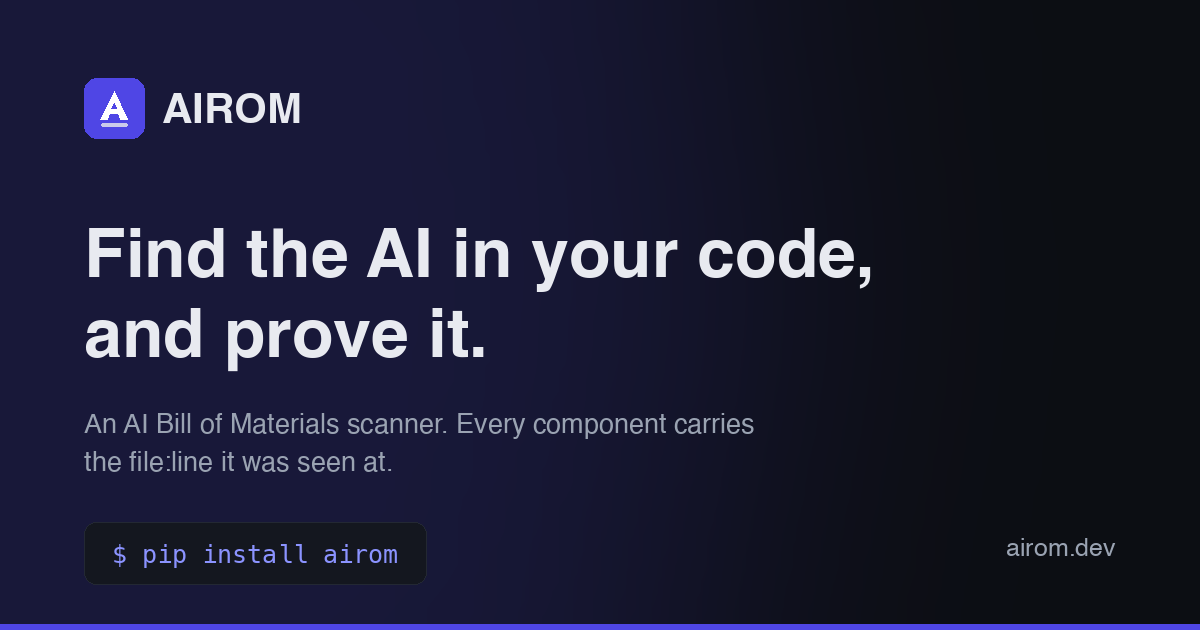
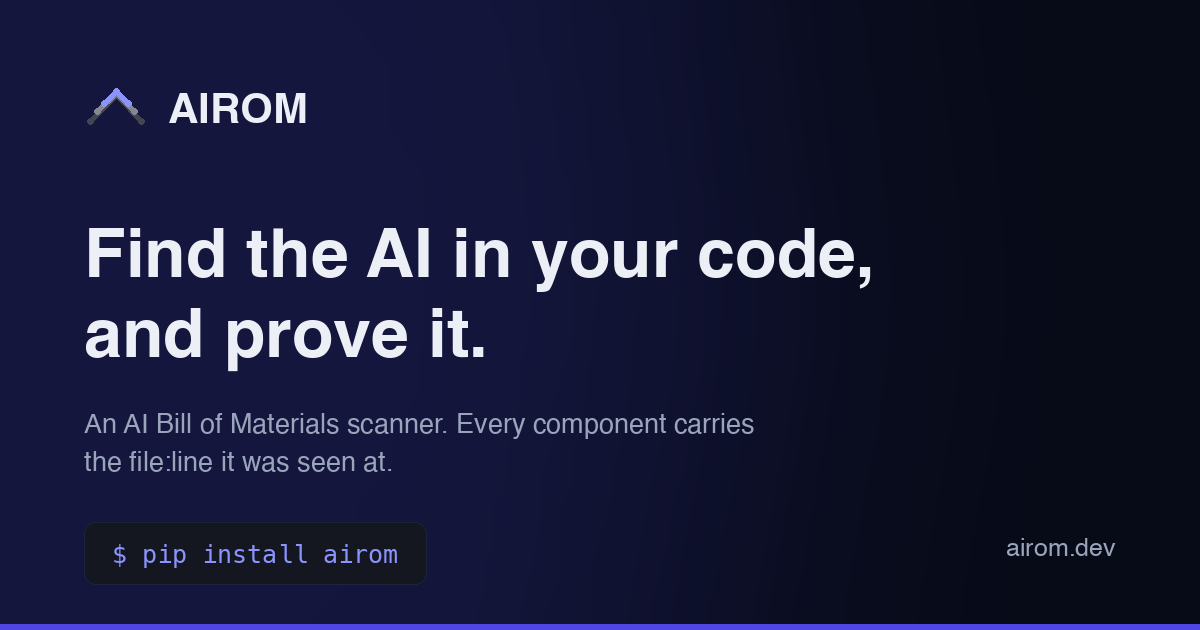
feat(web): new mark, and rewrite the landing copy around evidence
New logo across both sites: three nested ridges replacing the filled "A"
square. The favicon ships to www/ and docs-site/, and Mintlify gets a proper
lockup. Mintlify renders logos as <img>, so currentColor and
prefers-color-scheme inside the file cannot follow its theme toggle; each mode
gets its own asset instead, with light/dark meaning the MODE (confirmed against
Mintlify's schema reference, not assumed, because getting it backwards renders
dark ink on a dark header). In the landing page the mark is inlined with
currentColor and var(--accent) so it does follow the in-page toggle. og.png was
regenerated from the same geometry.

The copy leaned on one construction: a long sentence carrying three ideas,
joined by em dashes. The hero was a single 43-word sentence with two of them.
Rewritten around the positioning that inventory is table stakes and evidence is
what makes it actionable:

  Hero      three sentences: where it scans, what an AIBOM contains, and that
            every entry records the file, line and rule behind it.
  Evidence  "An inventory says what. Evidence says why." The four fields now
            say what you actually get, including that detector IDs are stable
            so a specific rule can be audited or suppressed.
  Features  every card is now one sentence on what it does and one on what you
            get out, instead of several concepts in a single clause.

Em dashes in visible copy: 9 -> 0, replaced by colons, semicolons and full
[…]

Changed region(s): [[0.0617, 0.1206, 0.2775, 0.2413]]

diff --git a/www/index.html b/www/index.html
@@ -381,15 +381,16 @@ footer { border-top: 1px solid var(--border); padding: 60px 0 70px; background: 
 <header>
   <div class="wrap nav">
     <a class="brand" href="/">
-      <svg viewBox="0 0 32 32" role="img" aria-label="AIROM">
-        <rect width="32" height="32" rx="7" fill="#4F46E5"/>
-        <path d="M16 7 L23 22 H19.6 L18.3 19.1 H13.7 L12.4 22 H9 L16 7 Z M14.9 16.4 H17.1 L16 13.6 Z" fill="#fff"/>
-        <rect x="9" y="24" width="14" height="1.8" rx="0.9" fill="#fff" opacity="0.75"/>
+      <svg viewBox="0 0 32 32" role="img" aria-label="AIROM" fill="none"
+        stroke-width="3.2" stroke-linecap="round" stroke-linejoin="round">
+        <path d="M3.2 23.5 L16 10.7 L28.8 23.5" stroke="currentColor" opacity="0.26"/>
+        <path d="M6.6 18.9 L16 9.5 L25.4 18.9" stroke="currentColor" opacity="0.55"/>
+        <path d="M10 14.5 L16 8.5 L22 14.5" stroke="var(--accent)"/>
       </svg>
       AIROM
     </a>
     <nav class="nav-links">
-      <a href="#evidence" class="hide-sm">Why</a>
+      <a href="#evidence" class="hide-sm">Evidence</a>
       <a href="#features" class="hide-sm">Features</a>
       <a href="#security" class="hide-sm">Security</a>
       <a href="https://docs.airom.dev">Docs</a>
@@ -409,10 +410,11 @@ footer { border-top: 1px solid var(--border); padding: 60px 0 70px; background: 
     <div class="eyebrow mono">AI Bill of Materials scanner</div>
     <h1>Find the AI in your code, <span class="hl">and prove it.</span></h1>
     <p class="lede">
-      AIROM scans a filesystem, git repo, container image or Kubernetes workload and
-      generates an <strong>AI Bill of Materials</strong> — the models, prompts, datasets,
-      embeddings, vector databases and frameworks your software actually uses — with
-      <strong>file:line evidence</strong> behind every entry.
+      AIROM scans filesystems, Git repositories, container images, and Kubernetes
+      workloads. It produces an <strong>AI Bill of Materials</strong>: the models, prompts,
+      datasets, embeddings, vector databases, and frameworks your software actually uses.
+      Every entry records the <strong>file and line</strong> it was found at, and the rule
+      that found it.
     </p>
 
     <div class="install">
@@ -420,8 +422,8 @@ footer { border-top: 1px solid var(--border); padding: 60px 0 70px; background: 
       <button class="copy" data-copy="pip install airom" type="button">Copy</button>
     </div>
     <p class="meta">
-      macOS · Linux · Windows · Apache 2.0 —
-      <a href="https://docs.airom.dev/installation">Homebrew, Go install and signed binaries →</a>
+      macOS · Linux · Windows · Apache 2.0.
+      <a href="https://docs.airom.dev/installation">Homebrew, Go install, and signed binaries →</a>
     </p>
 
     <div class="cta-row">
@@ -466,27 +468,30 @@ footer { border-top: 1px solid var(--border); padding: 60px 0 70px; background: 
 <section id="evidence">
   <div class="wrap">
     <div class="section-head">
-      <div class="eyebrow mono">Evidence first</div>
-      <h2>Sooner or later, someone asks why</h2>
+      <div class="eyebrow mono">Evidence</div>
+      <h2>An inventory says what. Evidence says why.</h2>
       <p class="q">“Your AIBOM says this service uses <code>gpt-4.1</code>. Why? Where?”</p>
       <p style="margin-top:16px">
-        Most tools can’t answer. They describe a model you named in a registry, or they never
-        look at your code. Every component AIROM emits carries the proof.
+        Most tools cannot answer that. They report a model you registered somewhere, or they
+        never read your code. AIROM records how it found each component, and where. Every
+        component carries four things:
       </p>
     </div>
 
     <div class="evidence">
       <dl>
-        <div class="row"><dt>Occurrences</dt><dd>Every sighting — <code>file:line</code>, the matched snippet, and the enclosing function or class when known.</dd></div>
-        <div class="row"><dt>Detection method</dt><dd>Which technique found it: source-code analysis, AST fingerprint, manifest analysis, binary analysis, hash comparison, config analysis, or filename.</dd></div>
-        <div class="row"><dt>Confidence</dt><dd>A calibrated 0–1 score, on the component and on each individual occurrence.</dd></div>
-        <div class="row"><dt>Detector ID</dt><dd>The stable rule that fired, e.g. <code>rules/openai/model-literal</code>.</dd></div>
+        <div class="row"><dt>Occurrences</dt><dd>Every place the component was seen. Each records <code>file:line</code>, the matched snippet, and the enclosing function or class where AIROM can determine it.</dd></div>
+        <div class="row"><dt>Detection method</dt><dd>How it was found: source-code analysis, AST fingerprint, manifest analysis, binary analysis, hash comparison, config analysis, or filename.</dd></div>
+        <div class="row"><dt>Confidence</dt><dd>A calibrated score from 0 to 1, recorded on the component and on each occurrence separately.</dd></div>
+        <div class="row"><dt>Detector ID</dt><dd>The rule that fired, such as <code>rules/openai/model-literal</code>. Identifiers stay stable across releases, so you can audit or suppress a specific rule.</dd></div>
       </dl>
     </div>
 
     <p style="color:var(--fg-muted); margin:28px 0 0; max-width:64ch">
-      That lands as CycloneDX <code>evidence.occurrences[]</code> — the field other AIBOM tools
-      leave empty. Every row is a claim you can walk back to a line of source.
+      All of it is written into CycloneDX <code>evidence.occurrences[]</code>, a field most AIBOM
+      tools leave empty. AIROM is equally explicit about what it does not know. A version it
+      cannot resolve stays empty instead of being guessed, and a model missing from the
+      lifecycle catalog carries no claim rather than a quiet “supported”.
     </p>
     <div class="stats">
       <div class="stat"><div class="n">143</div><div class="l">detection rules</div></div>
@@ -502,41 +507,41 @@ footer { border-top: 1px solid var(--border); padding: 60px 0 70px; background: 
 <section id="features">
   <div class="wrap">
     <div class="section-head">
-      <div class="eyebrow mono">Beyond inventory</div>
-      <h2>An inventory is the floor</h2>
-      <p>These are the things you can do once you have one.</p>
+      <div class="eyebrow mono">Assess and gate</div>
+      <h2>Risk, vulnerabilities, and CI checks</h2>
+      <p>The same scan feeds security review and pull-request gating.</p>
     </div>
 
     <div class="grid grid-3">
       <a class="cell" href="https://docs.airom.dev/concepts/risks">
         <span class="mono">Offline</span>
         <h3>Risk detection</h3>
-        <p>Load-time code-execution surfaces — pickle imports, Keras Lambda layers, GGUF template gadgets, unsafe <code>torch.load</code> — as CycloneDX vulnerabilities and SARIF.</p>
+        <p>Finds code-execution surfaces that fire when a model file is loaded: pickle imports, Keras Lambda layers, GGUF template gadgets, and unsafe <code>torch.load</code> calls. Findings are written as CycloneDX vulnerabilities and SARIF.</p>
       </a>
       <a class="cell" href="https://docs.airom.dev/concepts/cve">
         <span class="mono">On by default</span>
         <h3>CVE overlay</h3>
-        <p>Your AI dependencies against OSV.dev, with real CVSS scores and a fail-closed gate. Refuses under <code>--offline</code> rather than reporting a quiet nothing.</p>
+        <p>Matches the AI dependencies AIROM inventoried against OSV.dev and reports real CVSS scores. The gate fails closed: under <code>--offline</code> it refuses to run rather than reporting zero findings.</p>
       </a>
       <a class="cell" href="https://docs.airom.dev/concepts/eol">
         <span class="mono">Dated &amp; sourced</span>
         <h3>Model lifecycle</h3>
-        <p>Hosted models matched against a curated catalog of provider retirement announcements. Nothing inferred from naming patterns.</p>
+        <p>Checks hosted models against a curated catalog of provider retirement announcements. Every entry is dated and cites the provider page it came from, and nothing is inferred from naming patterns.</p>
       </a>
       <a class="cell" href="https://docs.airom.dev/concepts/compliance">
         <span class="mono">No invented scores</span>
         <h3>Compliance mapping</h3>
-        <p>NIST AI RMF and OWASP Agentic controls as CycloneDX attestations — met, gap, or manual, each linked to the evidence behind it.</p>
+        <p>Maps findings to NIST AI RMF and OWASP Agentic controls, emitted as CycloneDX attestations. Each control is marked met, gap, or manual, and links to the evidence behind that verdict.</p>
       </a>
       <a class="cell" href="https://docs.airom.dev/reference/cli">
         <span class="mono">Per-PR control</span>
         <h3>AIBOM diff</h3>
-        <p>The semantic delta between two scans, so AI becomes a pull-request gate. Refuses to gate across tooling drift rather than blaming a PR for a rule change.</p>
+        <p>Reports the semantic difference between two scans, so a new model or framework surfaces in the pull request that introduced it. It refuses to gate when the two scans came from different tooling versions.</p>
       </a>
       <a class="cell" href="https://docs.airom.dev/rules/updates">
         <span class="mono">ed25519-verified</span>
         <h3>Signed rule updates</h3>
-        <p>New frameworks and fresh retirement dates reach you without a new binary, over a signed update channel. Scans themselves never fetch.</p>
+        <p>Delivers new framework detection and updated retirement dates over an ed25519-signed channel, without shipping a new binary. Scanning never fetches rules; updates are an explicit command.</p>
       </a>
     </div>
   </div>
@@ -563,7 +568,7 @@ footer { border-top: 1px solid var(--border); padding: 60px 0 70px; background: 
   <div class="wrap" style="text-align:center">
     <h2 style="margin-bottom:16px">Scan something</h2>
     <p style="color:var(--fg-muted); max-width:52ch; margin:0 auto 32px">
-      One command, one static binary. No agent, no daemon, no account, no telemetry.
+      One command and a single static binary. No agent, no daemon, no account, no telemetry.
     </p>
     <div class="cta-row" style="justify-content:center">
       <a class="btn btn-primary" href="https://docs.airom.dev/quickstart">Get started</a>
@@ -579,14 +584,15 @@ footer { border-top: 1px solid var(--border); padding: 60px 0 70px; background: 
     <div class="foot-grid">
       <div class="foot-col foot-about">
         <a class="brand" href="/">
-          <svg viewBox="0 0 32 32" role="img" aria-label="AIROM">
-            <rect width="32" height="32" rx="7" fill="#4F46E5"/>
-            <path d="M16 7 L23 22 H19.6 L18.3 19.1 H13.7 L12.4 22 H9 L16 7 Z M14.9 16.4 H17.1 L16 13.6 Z" fill="#fff"/>
-            <rect x="9" y="24" width="14" height="1.8" rx="0.9" fill="#fff" opacity="0.75"/>
-          </svg>
+          <svg viewBox="0 0 32 32" role="img" aria-label="AIROM" fill="none"
+        stroke-width="3.2" stroke-linecap="round" stroke-linejoin="round">
+        <path d="M3.2 23.5 L16 10.7 L28.8 23.5" stroke="currentColor" opacity="0.26"/>
+        <path d="M6.6 18.9 L16 9.5 L25.4 18.9" stroke="currentColor" opacity="0.55"/>
+        <path d="M10 14.5 L16 8.5 L22 14.5" stroke="var(--accent)"/>
+      </svg>
           AIROM
         </a>
-        <p>An open-source AI Bill of Materials scanner. Every claim carries the evidence behind it.</p>
+        <p>An open-source AI Bill of Materials scanner. Every finding links back to the source that produced it.</p>
       </div>
       <div class="foot-col">
         <h4>Docs</h4>
@@ -614,7 +620,7 @@ footer { border-top: 1px solid var(--border); padding: 60px 0 70px; background: 
     </div>
     <div class="foot-bottom">
       <span>Apache License 2.0 · © AIROM contributors</span>
-      <span>Early but real — expect rough edges. <a href="https://github.com/airomhq/airom/blob/main/docs/project-status.md">Known gaps →</a></span>
+      <span>Early but real. Expect rough edges. <a href="https://github.com/airomhq/airom/blob/main/docs/project-status.md">Known gaps →</a></span>
     </div>
   </div>
 </footer>

diff --git a/www/tools/make-og.py b/www/tools/make-og.py
@@ -20,12 +20,12 @@ from PIL import Image, ImageDraw, ImageFilter, ImageFont
 
 W, H = 1200, 630
 
-BG = (12, 14, 19)
-FG = (232, 234, 240)
-MUTED = (154, 163, 178)
+BG = (7, 11, 24)
+FG = (236, 239, 246)
+MUTED = (154, 164, 187)
 ACCENT = (139, 147, 255)
 INDIGO = (79, 70, 229)
-BORDER = (35, 40, 51)
+BORDER = (27, 36, 56)
 
 OUT = pathlib.Path(__file__).resolve().parents[1] / "og.png"
 
@@ -66,28 +66,29 @@ def rounded(draw: ImageDraw.ImageDraw, box, radius, **kw) -> None:
 
 
 def mark(draw: ImageDraw.ImageDraw, x: int, y: int, size: int) -> None:
-    """The AIROM mark: an 'A' over the evidence baseline, matching favicon.svg."""
-    s = size / 32.0
-    rounded(draw, (x, y, x + size, y + size), radius=int(7 * s), fill=INDIGO)
+    """The AIROM mark: three nested ridges, matching www/favicon.svg.
 
-    # Outer triangle of the 'A', then the counter punched back out in the
-    # background colour — the same two-path construction as the SVG.
-    draw.polygon(
-        [(x + 16 * s, y + 7 * s), (x + 23 * s, y + 22 * s), (x + 19.6 * s, y + 22 * s),
-         (x + 18.3 * s, y + 19.1 * s), (x + 13.7 * s, y + 19.1 * s),
-         (x + 12.4 * s, y + 22 * s), (x + 9 * s, y + 22 * s)],
-        fill=(255, 255, 255),
-    )
-    draw.polygon(
-        [(x + 14.9 * s, y + 16.4 * s), (x + 17.1 * s, y + 16.4 * s), (x + 16 * s, y + 13.6 * s)],
-        fill=INDIGO,
-    )
-    rounded(
-        draw,
-        (x + 9 * s, y + 24 * s, x + 23 * s, y + 25.8 * s),
-        radius=int(0.9 * s),
-        fill=(203, 203, 235),
-    )
+    The canvas is flat RGB with no alpha, so the two receding ridges are
+    pre-blended against the background rather than drawn translucent. Pillow
+    has no round line caps either, so each vertex is stamped with a circle of
+    the stroke's radius to match the SVG's stroke-linecap="round".
+    """
+    s = size / 32.0
+    w = max(1, round(3.2 * s))
+    r = w / 2.0
+
+    def blend(fg, bg, a):
+        return tuple(round(b + a * (f - b)) for f, b in zip(fg, bg))
+
+    def ridge(points, colour):
+        pts = [(x + px * s, y + py * s) for px, py in points]
+        draw.line(pts, fill=colour, width=w, joint="curve")
+        for cx, cy in pts:
+            draw.ellipse((cx - r, cy - r, cx + r, cy + r), fill=colour)
+
+    ridge([(3.2, 23.5), (16, 10.7), (28.8, 23.5)], blend(FG, BG, 0.26))
+    ridge([(6.6, 18.9), (16, 9.5), (25.4, 18.9)], blend(FG, BG, 0.55))
+    ridge([(10, 14.5), (16, 8.5), (22, 14.5)], ACCENT)
 
 
 def main() -> None:
@@ -105,8 +106,8 @@ def main() -> None:
 
     pad = 84
 
-    mark(d, pad, pad - 6, 60)
-    d.text((pad + 78, pad + 6), "AIROM", font=font("bold", 42), fill=FG)
+    mark(d, pad, pad - 10, 64)
+    d.text((pad + 84, pad + 6), "AIROM", font=font("bold", 42), fill=FG)
 
     d.text(
         (pad, 224),
